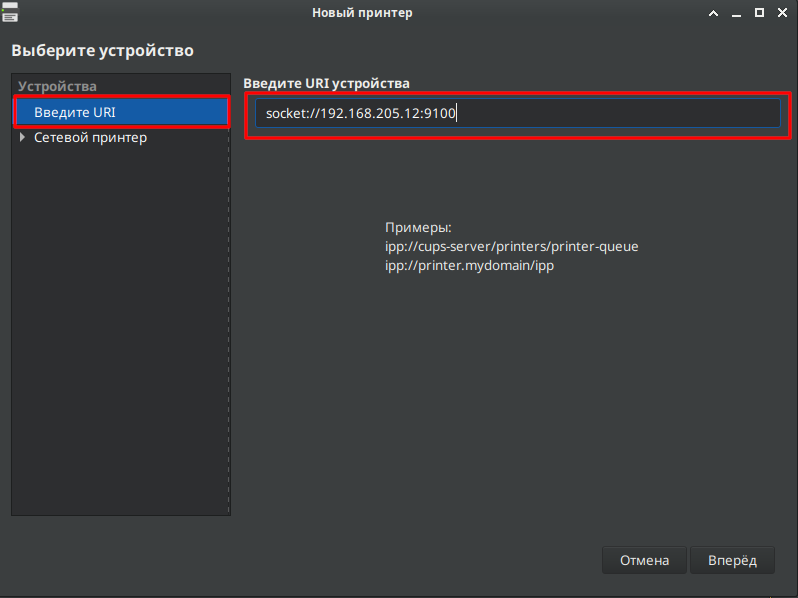
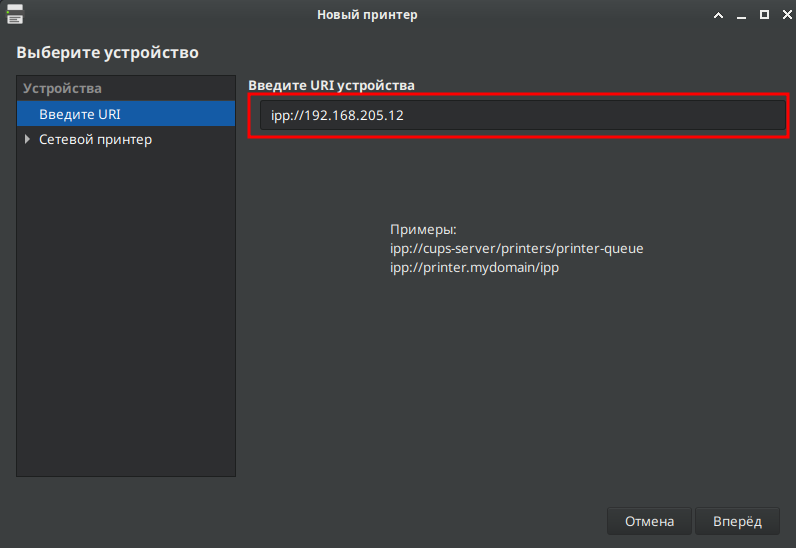
МойОфис

diff --git a/index.html b/index.html
@@ -2325,18 +2325,25 @@
                     </div>
                 </div>
             </section>
-            <seciont id="printer-connect">
+            <section id="printer-connect">
                 <h2>Подключение к сетевому принтеру</h2>
                 <!-- Команды -->
                 <div class="code-wrapper">
                     <button class="copy-btn" onclick="copyCode(this)">Копировать</button>
                     <div class="code-block">
-                        <div class="cmd cmd-root">system-config-printer</div>
+                        <div class="cmd cmd-user">system-config-printer</div>
                     </div>
                 </div>
                 <!-- Картинка -->
                 <img src="img/printer/img-printer-1.png" alt="Сетевое подключение принтера">
                 <img src="img/printer/img-printer-2.png" alt="Сетевое подключение принтера">
+                <!-- Подсказка -->
+                <div class="alert alert-tip">
+                    <div class="alert-content">
+                        <div class="alert-title">Подсказка</div>
+                        <p class="alert-text">Если принтер старый (выпуск до 2010 года) ipp может не работать, то используйте: <code>socket://192.168.205.12:9100</code></p>
+                    </div>
+                </div>
                 <img src="img/printer/img-printer-3.png" alt="Сетевое подключение принтера">
                 <!-- Подсказка -->
                 <div class="alert alert-tip">
@@ -2440,14 +2447,22 @@
                     <div class="cmd cmd-root">cd /home/<span class="mark">user1</span></div>
                 </div>
             </div>
+            <p>Установка МойОфис Текст, Таблица и Презентация:</p>
             <div class="code-wrapper">
                 <button class="copy-btn" onclick="copyCode(this)">Копировать</button>
                 <div class="code-block">
-                    <div class="cmd-comment"># Установка МойОфис Текст, Таблица и Презентация</div>
-                    <div class="cmd cmd-root">apt-get install -y ./altlinux/dist/MyOffice/myoffice-standard-documents-3.2-165.x86_64.rpm</div>
-                    <div class="cmd-comment"># Установка МойОфис Почта</div>
-                    <div class="cmd cmd-root">chmod +x ./altlinux/dist/MyOffice/MyOffice_Mail_PSN_Linux_2.8.sh</div>
-                    <div class="cmd cmd-root">./altlinux/dist/MyOffice/MyOffice_Mail_PSN_Linux_2.8.sh</div>
+                    <div class="cmd-comment">su - -c "</div>
+                    <div class="cmd cmd-serial">apt-get install -y /home/$USER/altlinux/dist/MyOffice/myoffice-standard-documents-3.2-165.x86_64.rpm</div>
+                    <div class="cmd cmd-serial">"</div>
+
+                </div>
+            </div>
+            <p>Установка МойОфис Почта:</p>
+            <div class="code-wrapper">
+                <button class="copy-btn" onclick="copyCode(this)">Копировать</button>
+                <div class="code-block">
+                    <div class="cmd cmd-user">chmod +x /home/$USER/altlinux/dist/MyOffice/MyOffice_Mail_PSN_Linux_2.8.sh</div>
+                    <div class="cmd cmd-user">/home/$USER/altlinux/dist/MyOffice/MyOffice_Mail_PSN_Linux_2.8.sh</div>
                 </div>
             </div>
             <!-- Важно -->